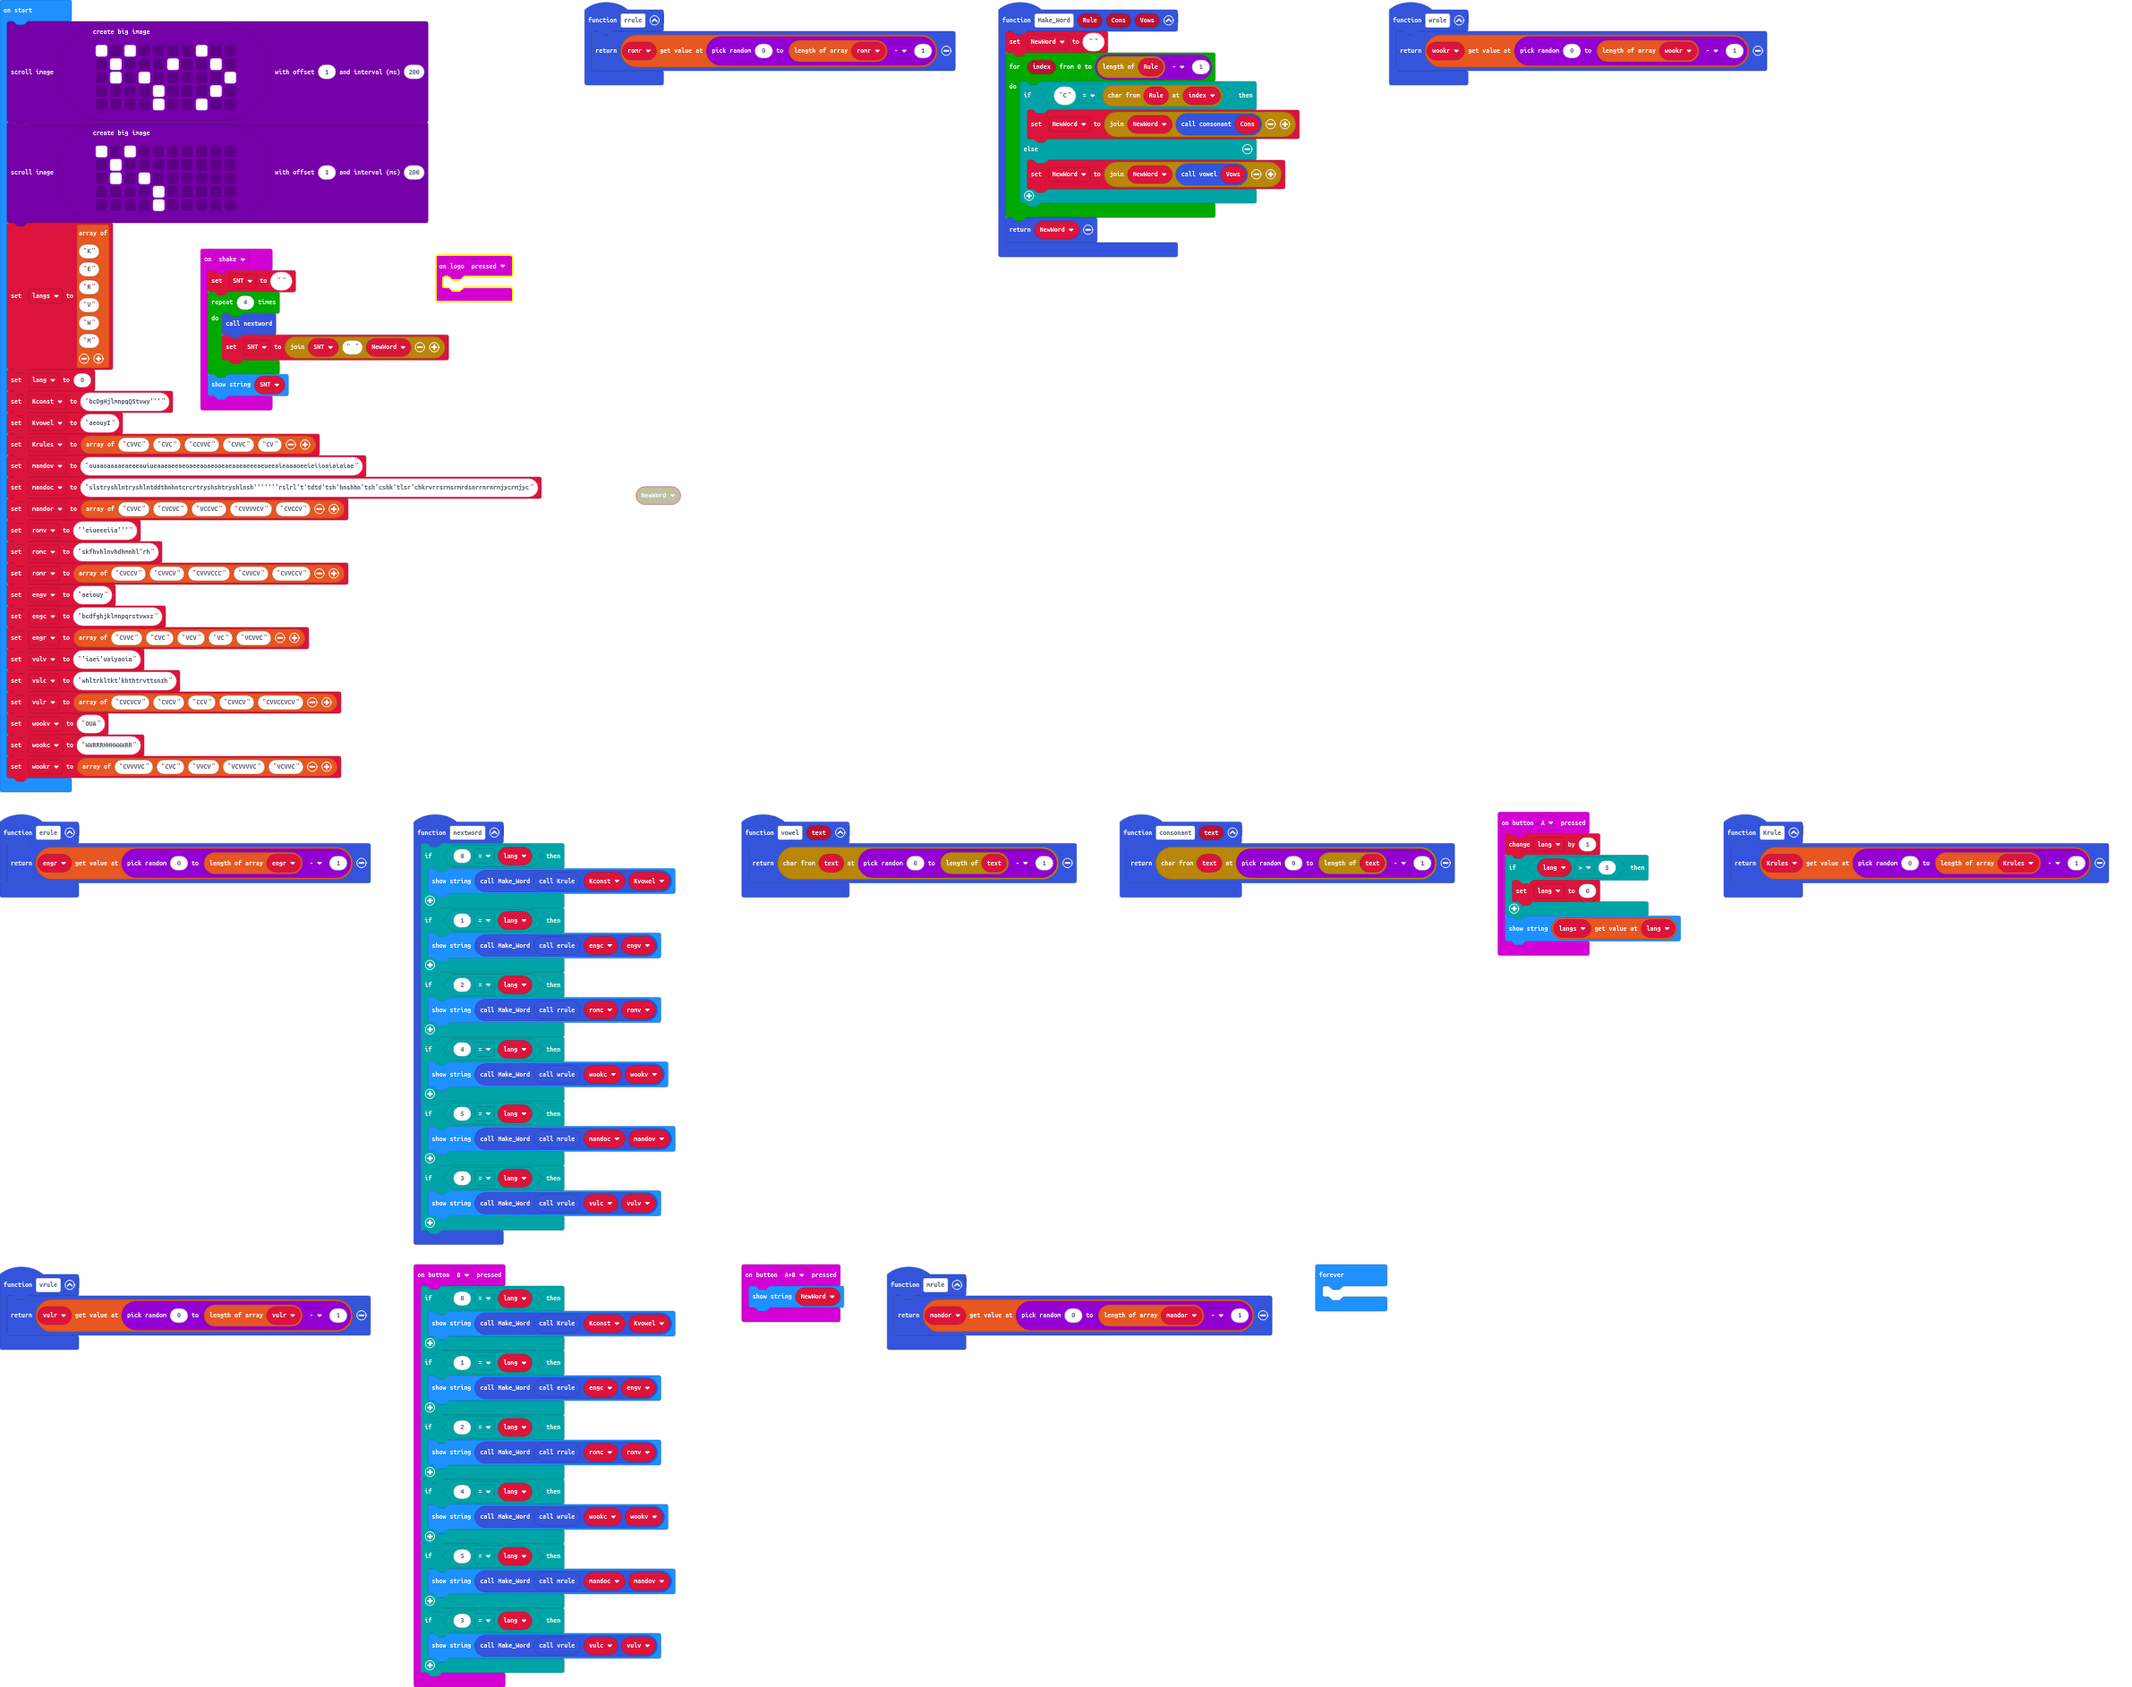
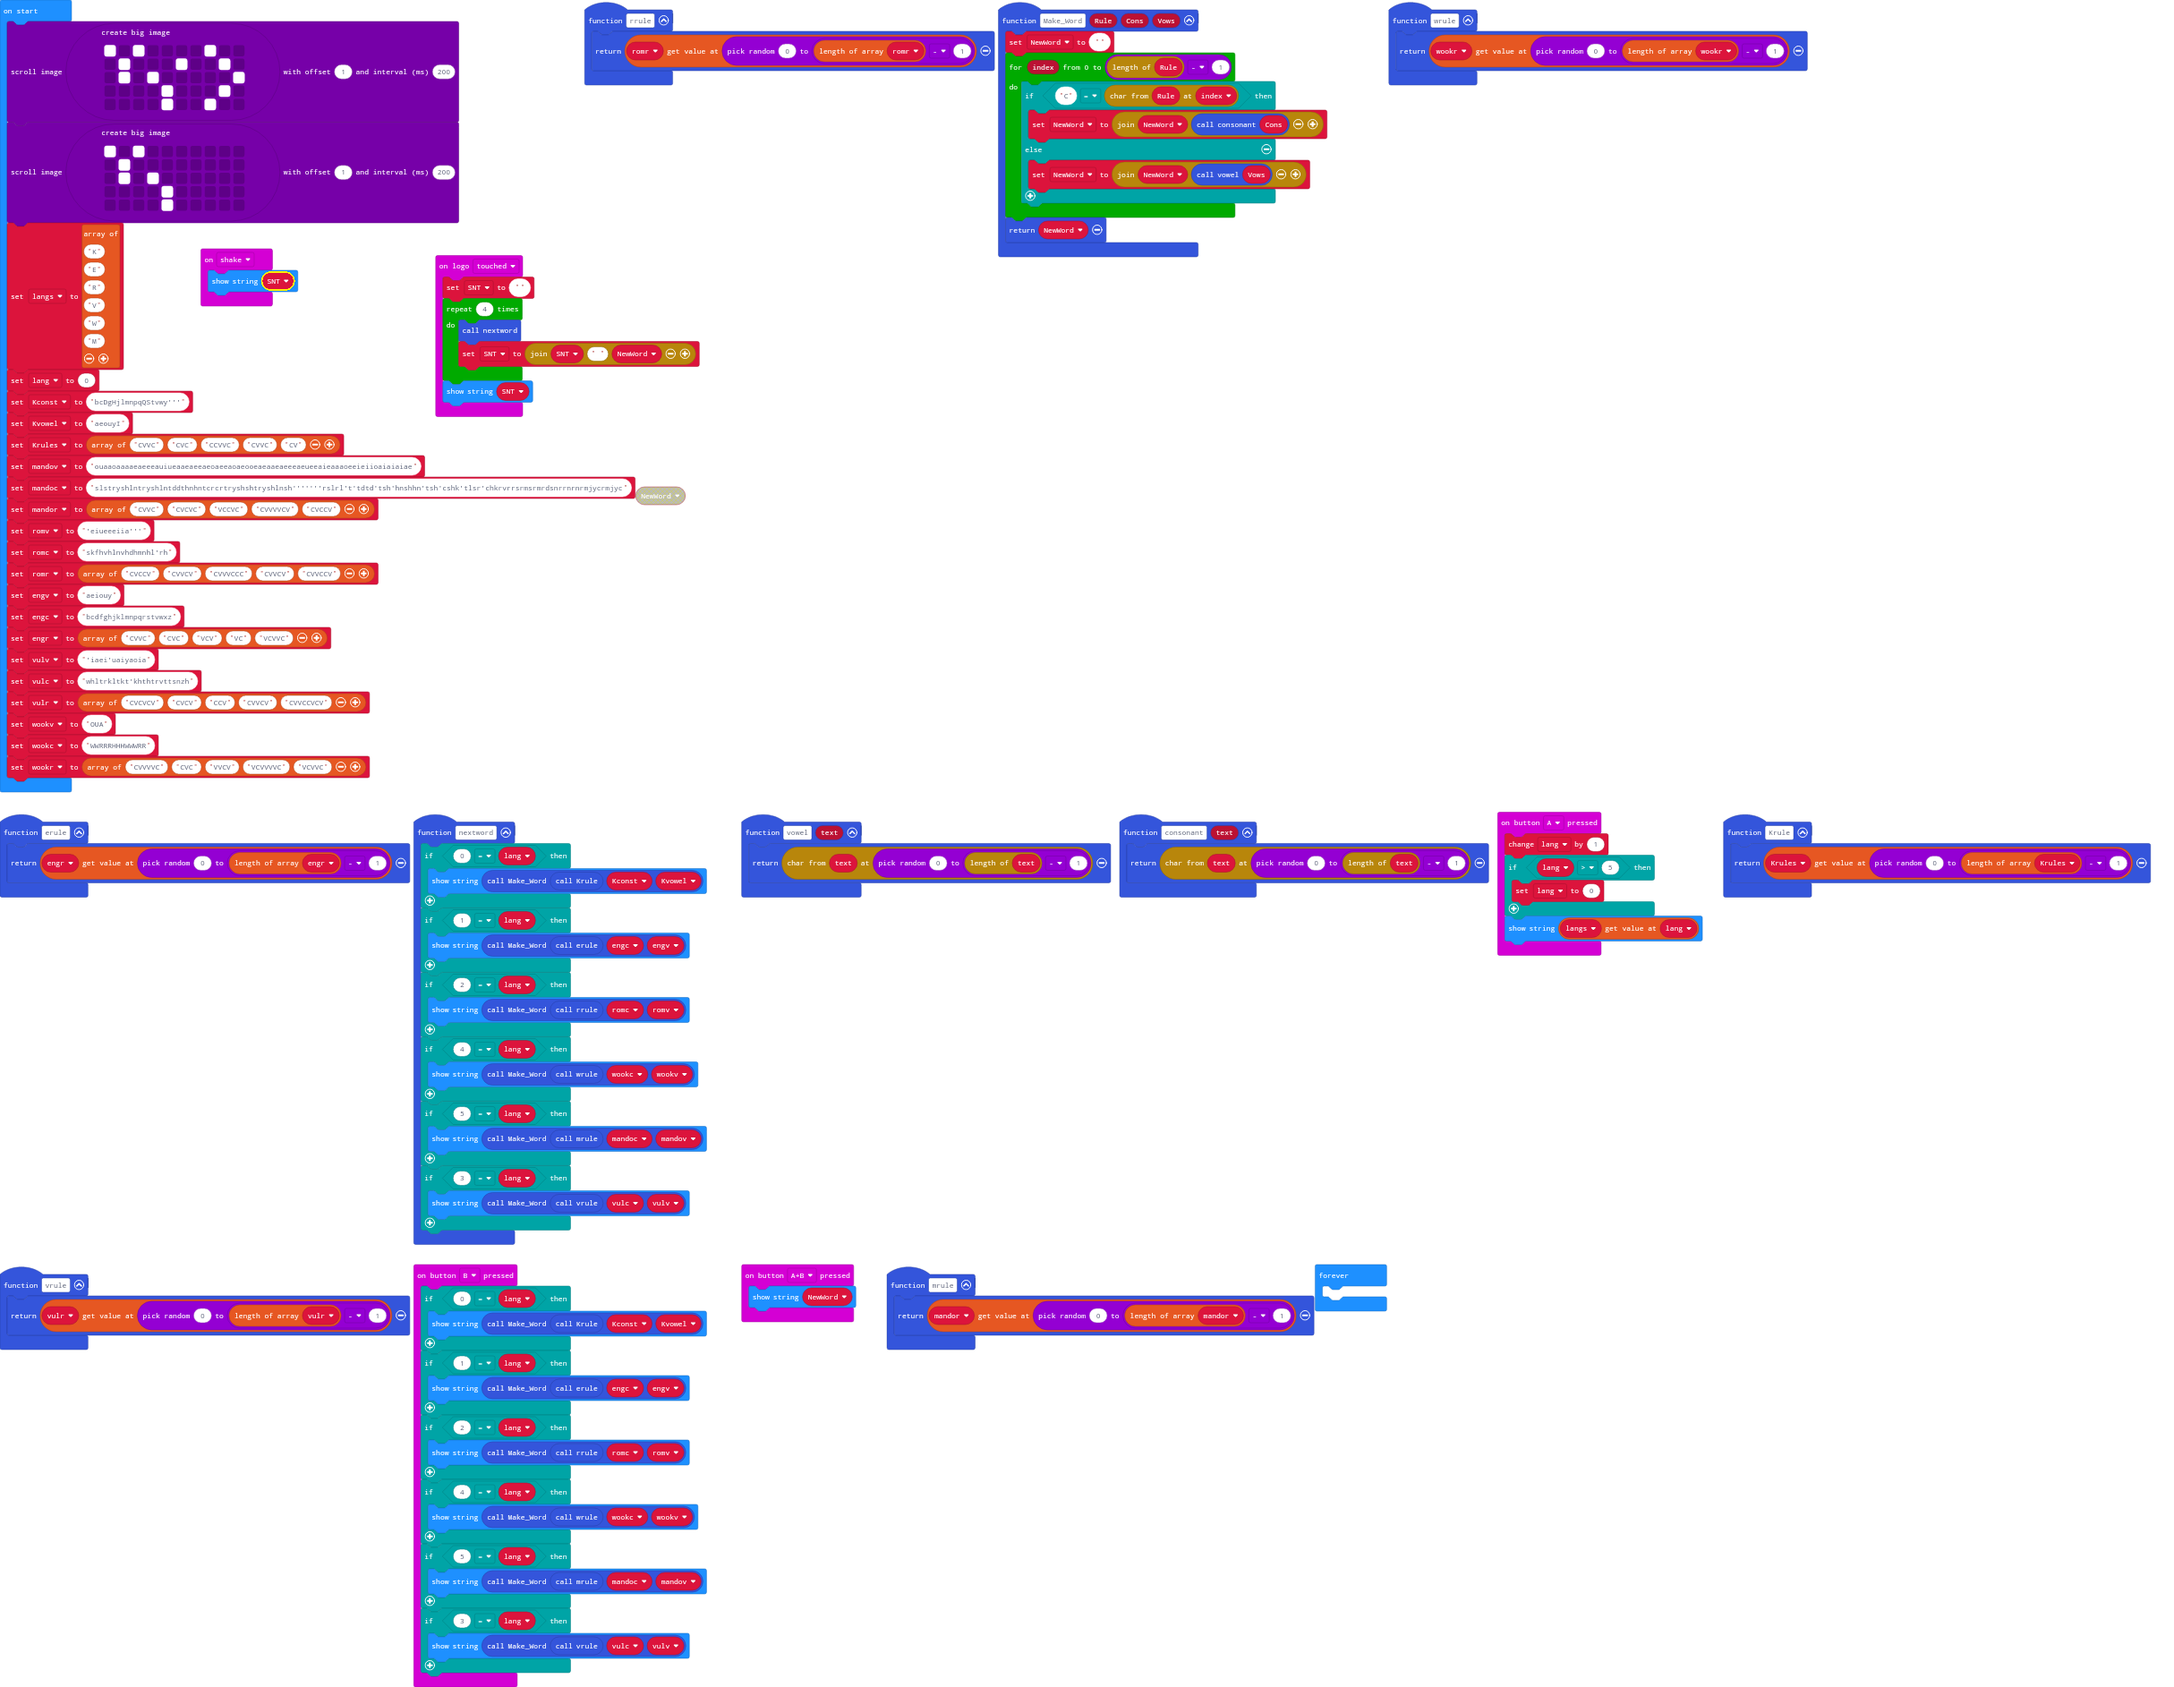
Update main.blocks, main.ts

diff --git a/main.ts b/main.ts
@@ -58,11 +58,6 @@ input.onButtonPressed(Button.B, function () {
     }
 })
 input.onGesture(Gesture.Shake, function () {
-    SNT = ""
-    for (let index = 0; index < 4; index++) {
-        nextword()
-        SNT = "" + SNT + " " + NewWord
-    }
     basic.showString(SNT)
 })
 function nextword () {
@@ -85,12 +80,17 @@ function nextword () {
         basic.showString("" + (Make_Word(vrule(), vulc, vulv)))
     }
 }
+input.onLogoEvent(TouchButtonEvent.Touched, function () {
+    SNT = ""
+    for (let index = 0; index < 4; index++) {
+        nextword()
+        SNT = "" + SNT + " " + NewWord
+    }
+    basic.showString(SNT)
+})
 function erule () {
     return engr[randint(0, engr.length - 1)]
 }
-input.onLogoEvent(TouchButtonEvent.Pressed, function () {
-	
-})
 function mrule () {
     return mandor[randint(0, mandor.length - 1)]
 }
